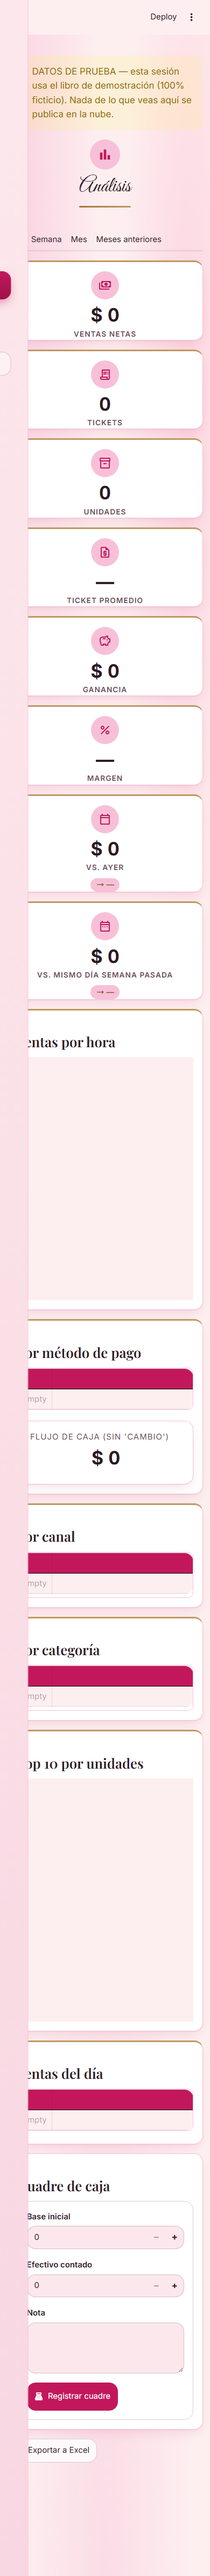
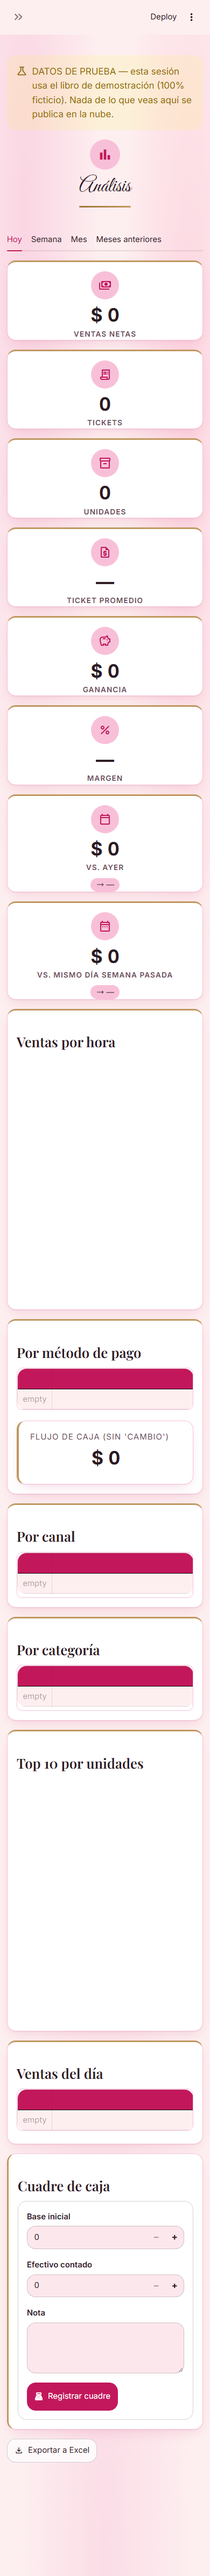
fix(rediseno-visual): corrige pares de contraste <4.5:1 y agrega pruebas visuales con Playwright (fuentes, consola, desborde)
Hallazgos de la ronda final de verificación visual:

- assets/theme.css: tres pares de color heredados/nuevos daban <4.5:1
  sobre fondos claros de chip/KPI (texto chico, no "texto grande" de
  WCAG): `dorado_texto` sobre `rosa_veta` (4.09:1, usado en
  .ot-chip--info, .ot-total-carrito__etiqueta y .ot-kpi__delta--neutro)
  y `exito` sobre el verde claro de chip/KPI (#E3F3EA, 4.40:1). Se
  corrigen a `texto_secundario` (4.93:1) y a un verde de fondo más claro
  (#EEF8F2, 4.66:1) respectivamente, sin tocar los TOKENS de marca.
- tests/test_theme_contrast.py: se agregan los pares nuevos/corregidos
  (tinta y texto_secundario sobre rosa_veta, icono de marca sobre rosa
  veta, exito/error sobre los fondos de chip) para que una regresión
  futura los vuelva a romper con una prueba roja, no en silencio.
- tests/test_visual_playwright.py (nuevo): levanta la app real en modo
  demo (libro diminuto, 100% ficticio) y verifica con un navegador de
  verdad: (1) las 4 fuentes de marca terminan con status "loaded" en
  document.fonts, no solo declaradas; (2) cero errores de consola en
  login + primera pantalla tras ingresar; (3) sin desborde horizontal a
  390px (scrollWidth del documento <= viewport).
- scripts/capture_screenshots_v2.py: el clic de navegación ahora
  verifica intersección real con el viewport (bounding_box) en vez de
  solo `is_visible()` -- en el cajón superpuesto de la barra lateral en
  móvil, Playwright puede considerar "visible" un botón que no tiene
[…]

Changed region(s): [[0.0, 0.0931, 0.1538, 0.9625], [0.0308, 0.0, 0.1538, 0.0621]]

diff --git a/assets/theme.css b/assets/theme.css
@@ -258,9 +258,11 @@ img, [data-testid="stImage"] img {
 .ot-kpi__delta .material-symbols-outlined {
   font-size: 15px;
 }
-.ot-kpi__delta--sube { background: #E3F3EA; color: var(--ot-exito); }
+.ot-kpi__delta--sube { background: #EEF8F2; color: var(--ot-exito); /* #E3F3EA daba 4.40:1 (<4.5:1); #EEF8F2 da 4.66:1 */ }
 .ot-kpi__delta--baja { background: #FBE9E7; color: var(--ot-error); }
-.ot-kpi__delta--neutro { background: var(--ot-rosa-veta); color: var(--ot-dorado-texto); }
+/* --ot-dorado-texto sobre --ot-rosa-veta da 4.09:1 (<4.5:1): mismo
+   hallazgo que en .ot-chip--info / .ot-total-carrito__etiqueta. */
+.ot-kpi__delta--neutro { background: var(--ot-rosa-veta); color: var(--ot-texto-secundario); }
 
 /* --------------------------------------------------------------- botones */
 [data-testid="stBaseButton-primary"],
@@ -532,10 +534,13 @@ button:focus-visible {
   line-height: 1.6;
   white-space: nowrap;
 }
-.ot-chip--exito { background: #E3F3EA; color: var(--ot-exito); }
+.ot-chip--exito { background: #EEF8F2; color: var(--ot-exito); /* #E3F3EA daba 4.40:1 (<4.5:1); #EEF8F2 da 4.66:1 */ }
 .ot-chip--alerta { background: var(--ot-alerta-fondo); color: var(--ot-alerta-texto); }
 .ot-chip--error { background: #FBE9E7; color: var(--ot-error); }
-.ot-chip--info { background: var(--ot-rosa-veta); color: var(--ot-dorado-texto); }
+/* --ot-dorado-texto sobre --ot-rosa-veta da 4.09:1 (<4.5:1, texto chico
+   de un chip): se usa --ot-texto-secundario (4.93:1), hallazgo de A5
+   durante la verificación visual — ver test_theme_contrast.py. */
+.ot-chip--info { background: var(--ot-rosa-veta); color: var(--ot-texto-secundario); }
 
 /* Etiquetas pequeñas en mayúscula con tracking (C3) */
 .ot-etiqueta {
@@ -586,7 +591,10 @@ button:focus-visible {
   letter-spacing: 0.08em;
   font-size: 0.8rem;
   font-weight: 600;
-  color: var(--ot-dorado-texto);
+  /* --ot-dorado-texto sobre --ot-rosa-veta da 4.09:1 (<4.5:1, texto
+     chico): se usa --ot-texto-secundario (4.93:1) en su lugar, ver
+     tests/test_theme_contrast.py::test_pares_texto_normal_cumplen_4_5_a_1 */
+  color: var(--ot-texto-secundario);
 }
 .ot-total-carrito__valor {
   font-family: "Inter", sans-serif;

diff --git a/tests/test_visual_playwright.py b/tests/test_visual_playwright.py
@@ -1,0 +1,181 @@
+"""Verificación visual automatizada con Playwright (A5 — SHELL/TEMA/AJUSTES).
+
+Complementa `tests/test_theme_contrast.py` (contraste WCAG, estático) y
+`tests/test_regresion_referencias.py` (sin `.st-emotion-cache-*`,
+estático): esto levanta la app REAL contra un libro demo diminuto y
+revisa, con un navegador de verdad:
+- las fuentes de marca (Inter/Playfair Display/Great Vibes/Material
+  Symbols) terminan cargadas (`document.fonts`), no solo declaradas;
+- cero errores de consola del navegador al cargar login + la primera
+  pantalla tras ingresar;
+- sin desborde horizontal a 390px (viewport móvil, D-responsive): el
+  `<body>` nunca debe ser más ancho que la ventana.
+
+Lento comparado con el resto de la suite (levanta un servidor real) —
+se mantiene en un módulo aparte y con un dataset mínimo (unos pocos
+días de ventas) para que siga siendo razonable dentro de `pytest -q`.
+"""
+from __future__ import annotations
+
+import os
+import socket
+import subprocess
+import sys
+import time
+import urllib.request
+from datetime import date
+from pathlib import Path
+
+import pytest
+
+REPO_ROOT = Path(__file__).resolve().parent.parent
+
+playwright_sync_api = pytest.importorskip("playwright.sync_api")
+
+
+def _puerto_libre() -> int:
+    with socket.socket(socket.AF_INET, socket.SOCK_STREAM) as s:
+        s.bind(("127.0.0.1", 0))
+        return s.getsockname()[1]
+
+
+@pytest.fixture(scope="module")
+def servidor_demo(tmp_path_factory):
+    """Levanta `streamlit run app.py` en modo demo contra un libro
+    diminuto y 100% ficticio (reutiliza `scripts.seed_demo`, la misma
+    compuerta `DEMO=1` que usa la app en producción). Se cierra al
+    terminar el módulo."""
+    from core.storage import Storage
+    from scripts.seed_demo import poblar_demo
+
+    ruta = tmp_path_factory.mktemp("visual_playwright") / "OLATATA_DEMO.xlsx"
+    storage = Storage(local_path=ruta, sync_enabled=False)
+    poblar_demo(storage, dias=5, ventas_por_dia=5, fecha_inicio=date(2025, 9, 1))
+
+    puerto = _puerto_libre()
+    env = os.environ.copy()
+    env["DEMO"] = "1"
+    env["OLATATA_DB_PATH"] = str(ruta)
+    proceso = subprocess.Popen(
+        [
+            sys.executable,
+            "-m",
+            "streamlit",
+            "run",
+            "app.py",
+            "--server.headless",
+            "true",
+            "--server.port",
+            str(puerto),
+            "--server.fileWatcherType",
+            "none",
+        ],
+        cwd=REPO_ROOT,
+        env=env,
+        stdout=subprocess.DEVNULL,
+        stderr=subprocess.DEVNULL,
+    )
+    base_url = f"http://localhost:{puerto}"
+    listo = False
+    for _ in range(60):
+        try:
+            urllib.request.urlopen(base_url, timeout=1)
+            listo = True
+            break
+        except Exception:
+            time.sleep(1)
+    if not listo:
+        proceso.terminate()
+        pytest.fail("El servidor de Streamlit no respondió a tiempo para las pruebas visuales.")
+
+    try:
+        yield base_url
+    finally:
+        proceso.terminate()
+        try:
+            proceso.wait(timeout=10)
+        except subprocess.TimeoutExpired:
+            proceso.kill()
+
+
+def _login(page, usuario: str = "admin.demo", password: str = "Demo-12345") -> None:
+    page.get_by_label("Usuario").fill(usuario)
+    page.get_by_label("Contraseña").fill(password)
+    page.get_by_role("button", name="Entrar").click()
+    page.wait_for_timeout(1500)
+
+
+def test_fuentes_de_marca_terminan_cargadas(servidor_demo):
+    from playwright.sync_api import sync_playwright
+
+    with sync_playwright() as p:
+        browser = p.chromium.launch()
+        page = browser.new_page(viewport={"width": 1366, "height": 768})
+        page.goto(servidor_demo, wait_until="networkidle", timeout=30000)
+        page.wait_for_timeout(1000)
+        # "Material Symbols Outlined" (icono_md/chip_estado/kpi_card/
+        # estado_vacio) solo se solicita en pantallas que de verdad pintan
+        # un icono propio -- el login no usa ninguna. Se entra a Vender
+        # (encabezado_pagina(..., icono=...)) para que las 4 fuentes de
+        # marca estén realmente en uso antes de revisar `document.fonts`.
+        _login(page)
+        page.wait_for_timeout(1000)
+        # `document.fonts.ready` solo espera las fuentes YA solicitadas por
+        # el CSS aplicado en ese instante -- con un arranque en frío del
+        # servidor (primera carga real) pueden solicitarse unos
+        # milisegundos después de "networkidle". Se reintenta un par de
+        # veces en vez de un único `wait_for_timeout` fijo.
+        familias_cargadas: list[str] = []
+        requeridas_local = {"Inter", "Playfair Display", "Great Vibes", "Material Symbols Outlined"}
+        for _ in range(10):
+            page.wait_for_timeout(500)
+            page.evaluate("document.fonts.ready")
+            familias_cargadas = page.evaluate(
+                "() => Array.from(document.fonts).filter(f => f.status === 'loaded').map(f => f.family)"
+            )
+            if all(any(req in f for f in familias_cargadas) for req in requeridas_local):
+                break
+        browser.close()
+
+    requeridas = {"Inter", "Playfair Display", "Great Vibes", "Material Symbols Outlined"}
+    faltantes = {f for f in requeridas if not any(f in familia for familia in familias_cargadas)}
+    assert not faltantes, f"Fuentes declaradas pero no cargadas: {faltantes} (cargadas: {familias_cargadas})"
+
+
+def test_sin_errores_de_consola_en_login_y_primera_pantalla(servidor_demo):
+    from playwright.sync_api import sync_playwright
+
+    with sync_playwright() as p:
+        browser = p.chromium.launch()
+        page = browser.new_page(viewport={"width": 1366, "height": 768})
+        errores = []
+        page.on("console", lambda msg: errores.append(msg.text) if msg.type == "error" else None)
+        page.on("pageerror", lambda exc: errores.append(str(exc)))
+
+        page.goto(servidor_demo, wait_until="networkidle", timeout=30000)
+        page.wait_for_timeout(1500)
+        _login(page)
+        page.wait_for_timeout(1500)
+        browser.close()
+
+    assert not errores, f"Errores de consola del navegador: {errores}"
+
+
+def test_sin_desborde_horizontal_a_390px(servidor_demo):
+    from playwright.sync_api import sync_playwright
+
+    with sync_playwright() as p:
+        browser = p.chromium.launch()
+        page = browser.new_page(viewport={"width": 390, "height": 844})
+        page.goto(servidor_demo, wait_until="networkidle", timeout=30000)
+        page.wait_for_timeout(1500)
+        _login(page)
+        page.wait_for_timeout(1500)
+
+        ancho_viewport = page.evaluate("window.innerWidth")
+        ancho_documento = page.evaluate("document.documentElement.scrollWidth")
+        browser.close()
+
+    assert ancho_documento <= ancho_viewport + 1, (
+        f"Desborde horizontal a 390px: documento={ancho_documento}px > viewport={ancho_viewport}px"
+    )

diff --git a/scripts/capture_screenshots_v2.py b/scripts/capture_screenshots_v2.py
@@ -73,7 +73,41 @@ def shot(page, name: str) -> None:
 
 
 def goto_nav(page, label: str) -> None:
-    page.get_by_role("button", name=label, exact=True).click()
+    """Hace clic en un ítem del menú lateral. A <=576px Streamlit colapsa
+    la barra lateral en un cajón superpuesto (control ">>"/"<<", stable
+    testid `stSidebarCollapsedControl`) — si el botón del menú no está
+    visible todavía, primero se abre ese cajón."""
+    boton = page.get_by_role("button", name=label, exact=True)
+    if boton.count() == 0 or not boton.first.is_visible():
+        control = page.get_by_test_id("stSidebarCollapsedControl")
+        if control.count() > 0:
+            control.first.click()
+            page.wait_for_timeout(500)
+    # `is_visible()` solo mira CSS (display/visibility), no intersección
+    # real con el viewport -- en el cajón superpuesto de móvil el botón
+    # puede ser "visible" para Playwright y aun así quedar fuera del
+    # rectángulo visible, con lo que `.click()` normal (e incluso
+    # `force=True`) se niega a "apuntar" a un punto inexistente en
+    # pantalla. Se dispara el click nativo en el DOM por texto siempre
+    # que la intersección con el viewport sea nula; si es real, se deja
+    # el click normal de Playwright (dispara los mismos eventos que una
+    # persona real, mejor cuando funciona).
+    caja = boton.first.bounding_box()
+    vp = page.viewport_size
+    interseca = bool(
+        caja and vp and caja["x"] < vp["width"] and caja["y"] < vp["height"] and caja["x"] + caja["width"] > 0 and caja["y"] + caja["height"] > 0
+    )
+    if interseca:
+        boton.click()
+    else:
+        page.evaluate(
+            """(texto) => {
+                const botones = Array.from(document.querySelectorAll('[data-testid="stSidebar"] button'));
+                const boton = botones.find((b) => b.textContent.includes(texto));
+                if (boton) boton.click();
+            }""",
+            label,
+        )
     page.wait_for_timeout(1200)
 
 

diff --git a/tests/test_theme_contrast.py b/tests/test_theme_contrast.py
@@ -49,10 +49,24 @@ PARES_TEXTO_NORMAL = [
     (COLOR["error"], COLOR["superficie"], "texto de error sobre superficie"),
     (COLOR["alerta_texto"], COLOR["alerta_fondo"], "texto de alerta sobre fondo de alerta"),
     (COLOR["primario"], COLOR["superficie"], "enlaces/primario sobre superficie"),
+    # Rediseño visual (A5): pares nuevos introducidos por el sistema de
+    # tarjetas/KPI/total del carrito (assets/theme.css). Nota: el chip
+    # "info" y la etiqueta TOTAL usaban antes `dorado_texto` sobre
+    # `rosa_veta` (4.09:1, no pasa 4.5:1 en texto chico) — se corrigió a
+    # `texto_secundario` (4.93:1), por eso aquí solo se fija el par bueno.
+    (COLOR["tinta"], COLOR["rosa_veta"], "tinta sobre rosa veta (total del carrito)"),
+    (COLOR["texto_secundario"], COLOR["rosa_veta"], "texto secundario sobre rosa veta (etiqueta TOTAL, chip info)"),
+    # Fondos literales de los chips/KPI de estado (no son TOKENS con
+    # nombre porque son un matiz MÁS claro que fondo/sidebar, pensado
+    # solo para la píldora): #E3F3EA daba 4.40:1 con `exito` (<4.5:1,
+    # texto chico) -- se aclaró a #EEF8F2 (4.66:1).
+    (COLOR["exito"], "#EEF8F2", "texto de éxito sobre fondo de chip/kpi de éxito"),
+    (COLOR["error"], "#FBE9E7", "texto de error sobre fondo de chip/kpi de error"),
 ]
 
 PARES_TEXTO_GRANDE_O_ICONO = [
     (COLOR["primario"], COLOR["fondo"], "título Playfair (color primario) sobre fondo"),
+    (COLOR["primario"], COLOR["rosa_veta"], "icono de marca sobre rosa veta (círculo de kpi_card/hero)"),
 ]
 
 
